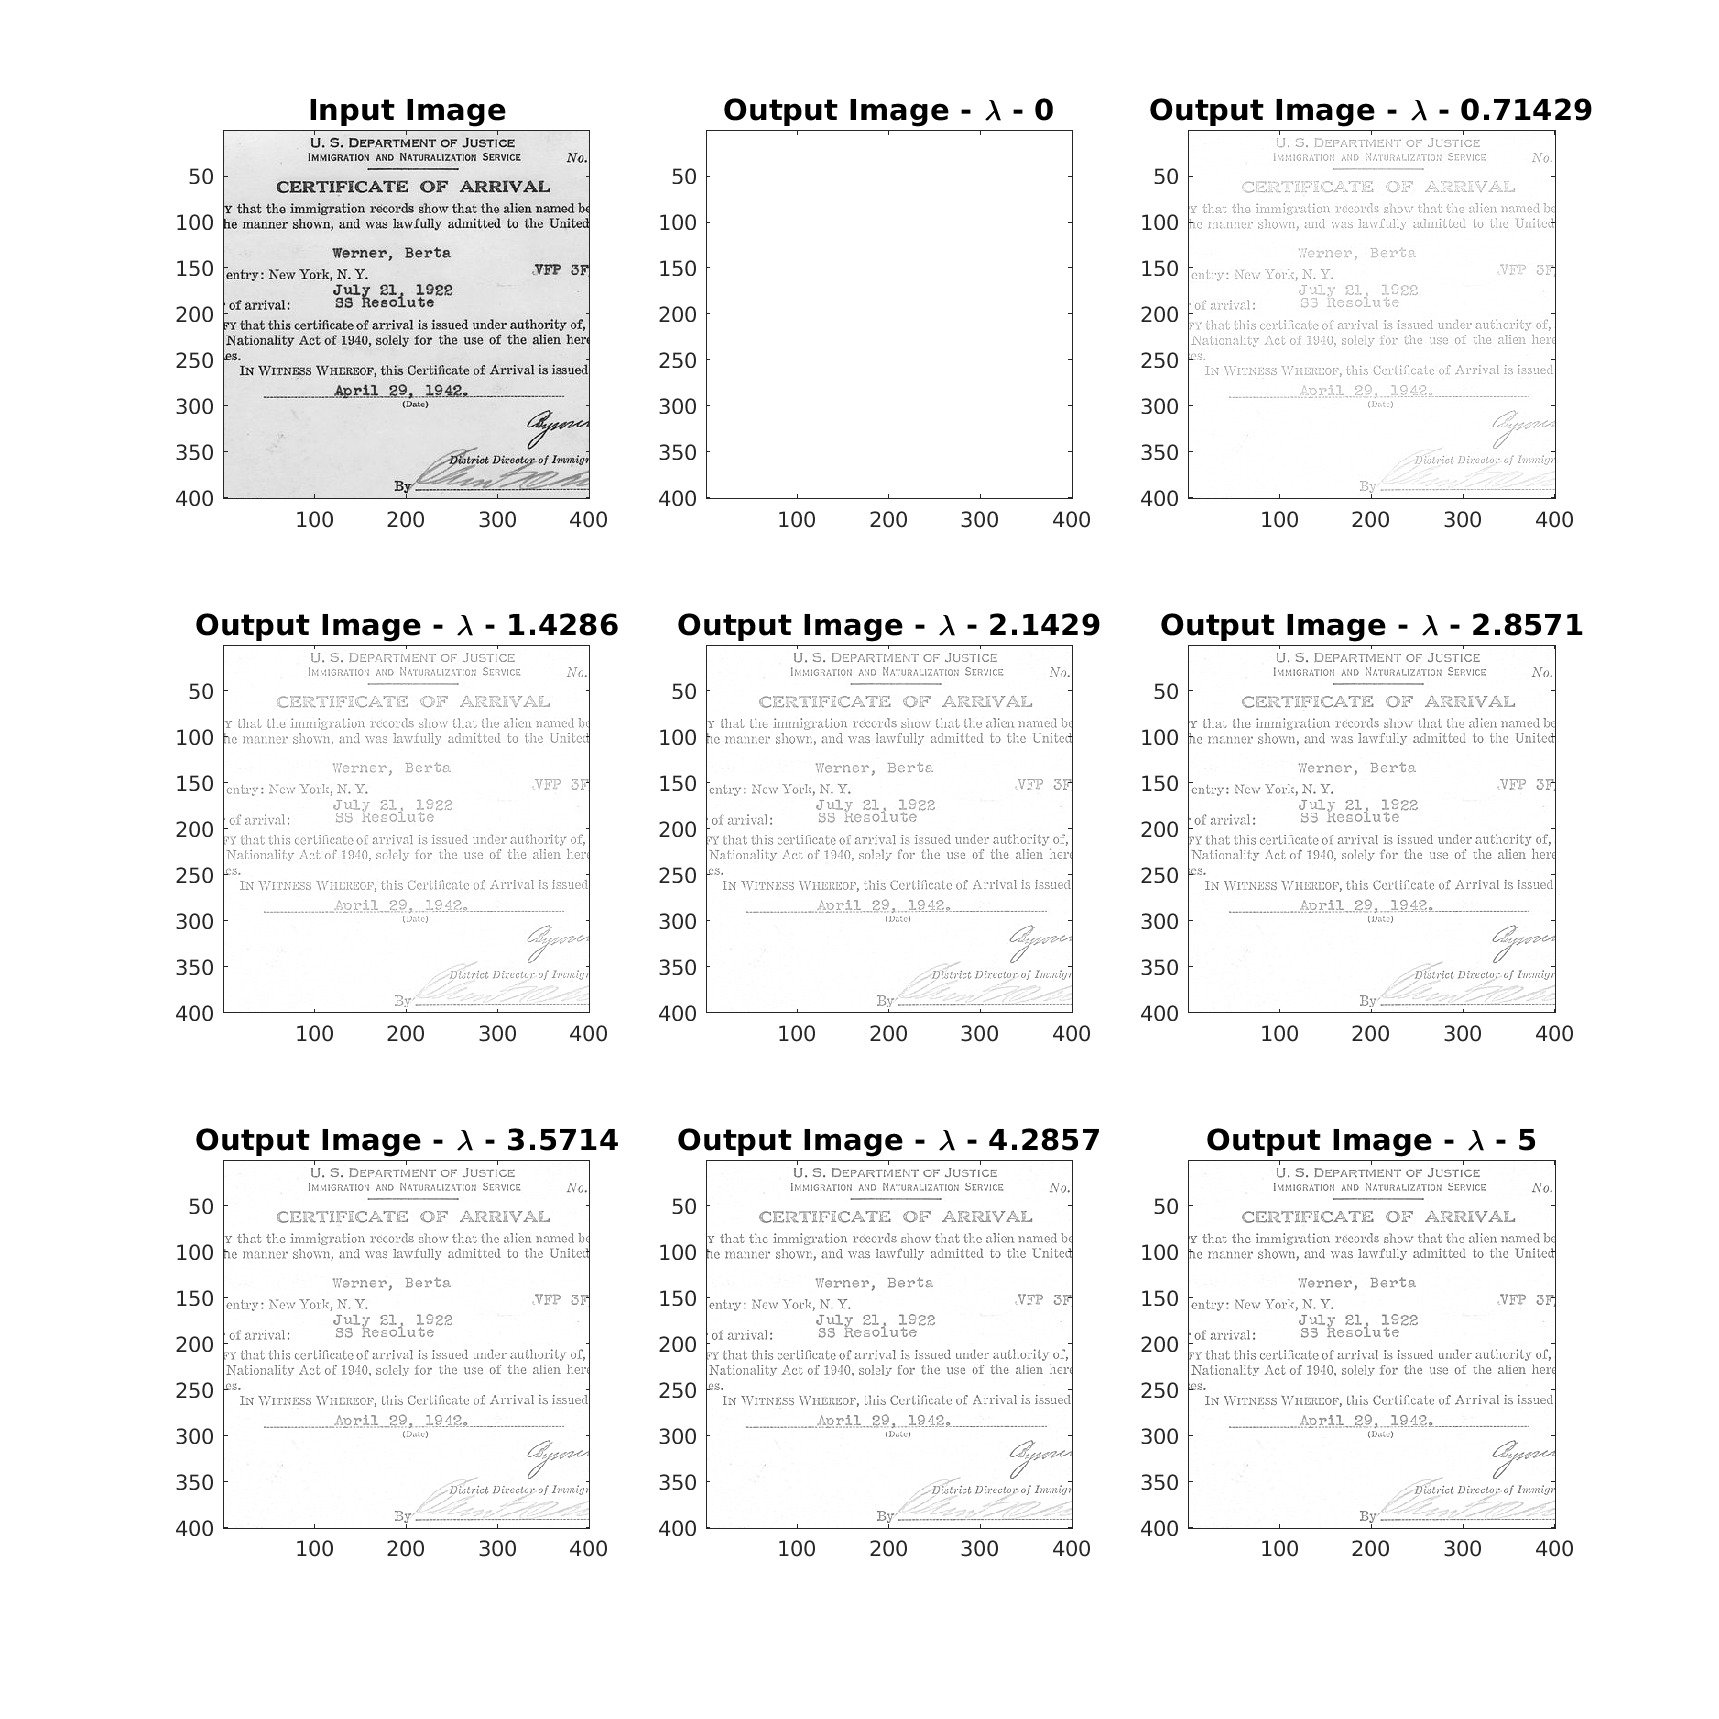
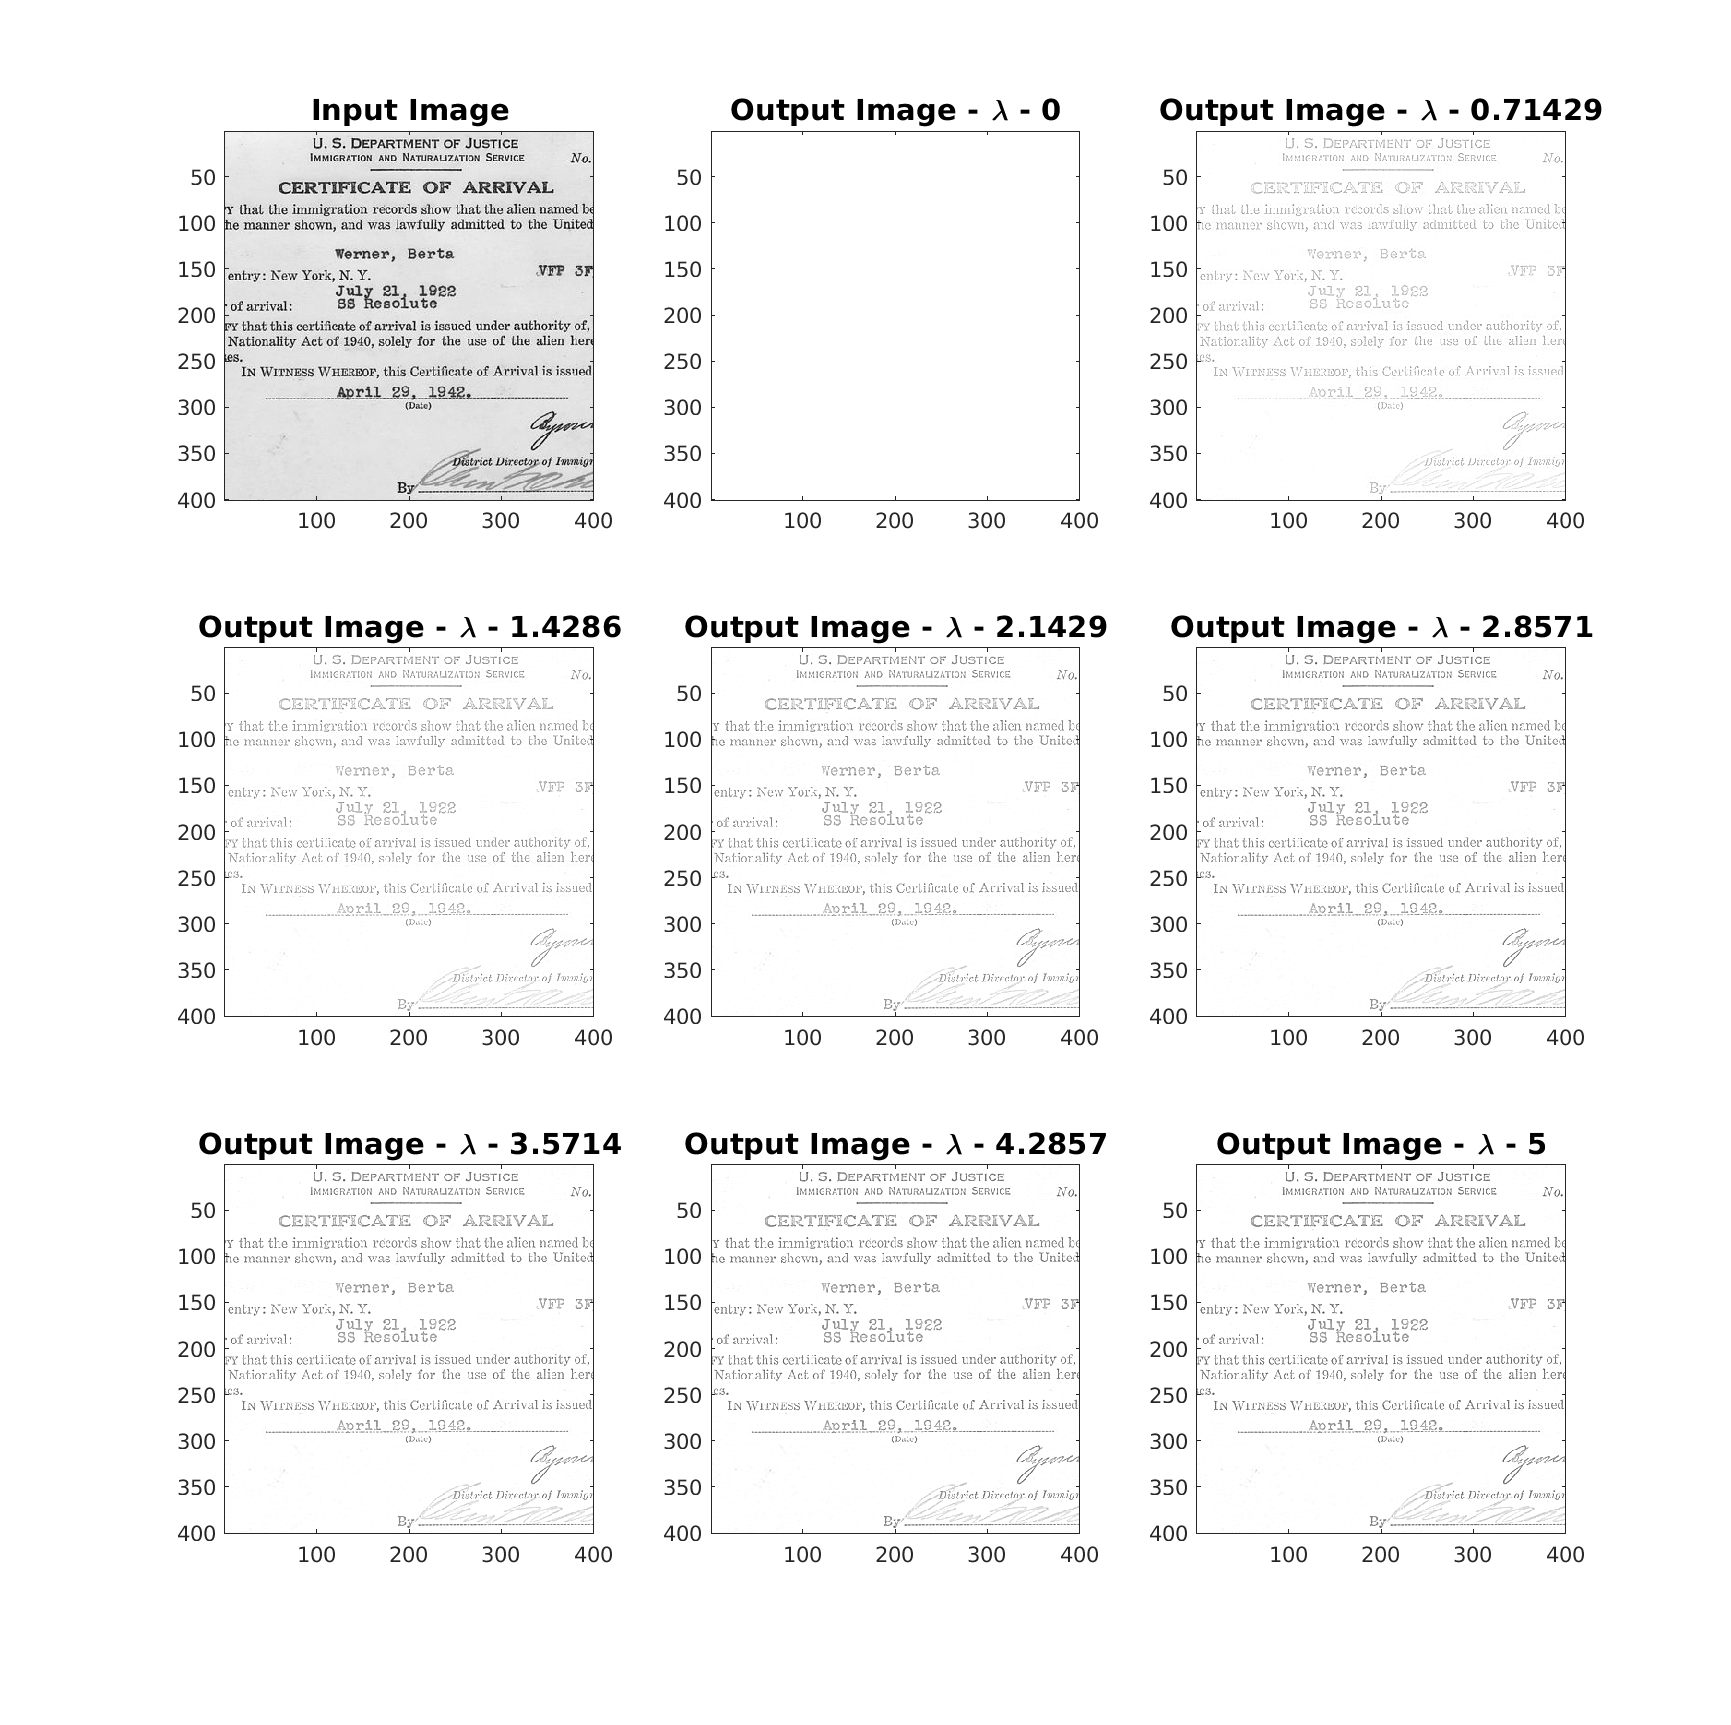
Added solution to https://dsp.stackexchange.com/questions/50003 - Automatic Image Enhancement of Images of Scanned Documents (Added Image Laplacian Calculation).

diff --git a/SignalProcessing/Q50329/Q50329A.m b/SignalProcessing/Q50329/Q50329A.m
@@ -1,0 +1,95 @@
+% StackExchange Signal Processing Q50003
+% https://dsp.stackexchange.com/questions/50003/
+% Automatic Image Enhancement of Images of Scanned Documents
+% References:
+%   1.  aa
+% Remarks:
+%   1.  Image - Certificate of Arrival for Berta Werner (Wikipdia).
+%       Taken from https://commons.wikimedia.org/wiki/File:Certificate_of_Arrival_for_Berta_Werner._-_NARA_-_282038.jpg.
+%   2.  This solves teh same problem using Conjugate Gradient.
+% TODO:
+% 	1.  ds
+% Release Notes
+% - 1.0.000     29/06/2018  Royi
+%   *   First release.
+
+
+%% General Parameters
+
+run('InitScript.m');
+
+figureIdx           = 0; %<! Continue from Question 1
+figureCounterSpec   = '%04d';
+
+generateFigures = ON;
+
+
+%% Simulation Parameters
+
+imageFileName = 'InputImage.jpg'; %<! Source - WikiMedia (Certificate of Arrival for Berta Werner).
+
+vParamLambda = linspace(0, 5, 8);
+
+
+%% Load & Generate Data
+
+mI = im2double(imread(imageFileName));
+mI = mI(11:410, 201:600, 1);
+
+% mI = mI(11:20, 201:210, 1);
+
+numRows     = size(mI, 1);
+numCols     = size(mI, 2);
+numPixels   = numRows * numCols;
+
+mO = zeros([numRows, numCols, length(vParamLambda)]); %<! Output
+
+
+%% Analysis
+
+mII = speye(numPixels);
+vB  = ones([numPixels, 1]);
+
+tic();
+for ii = 1:length(vParamLambda)
+    paramLambda = vParamLambda(ii);
+    
+    hAFun   = @(vX) vX + (paramLambda * reshape(CalcImageLaplacian(  reshape(vX, numRows, numCols) ), numPixels, 1));
+    vB      = paramLambda * reshape(CalcImageLaplacian(mI), [], 1) + ones([numPixels, 1]);
+    
+    mO(:, :, ii) = reshape(pcg(hAFun, vB), numRows, numCols);
+end
+toc();
+
+
+
+%% Display Results
+
+figureIdx = figureIdx + 1;
+
+hFigure         = figure('Position', [100, 100, 1100, 1100]);
+
+hAxes     = subplot(sqrt(length(vParamLambda) + 1), sqrt(length(vParamLambda) + 1), 1);
+hImageObj = image(repmat(mI, [1, 1, 3]));
+set(hAxes, 'DataAspectRatio', [1, 1, 1]);
+set(get(hAxes, 'Title'), 'String', {['Input Image']}, ...
+    'FontSize', fontSizeTitle);
+
+for ii = 1:length(vParamLambda)
+    hAxes     = subplot(sqrt(length(vParamLambda) + 1), sqrt(length(vParamLambda) + 1), ii + 1);
+    hImageObj = image(repmat(mO(:, :, ii), [1, 1, 3]));
+    set(hAxes, 'DataAspectRatio', [1, 1, 1]);
+    set(get(hAxes, 'Title'), 'String', {['Output Image - \lambda - ', num2str(vParamLambda(ii))]}, ...
+        'FontSize', fontSizeTitle);
+end
+
+if(generateFigures == ON)
+    saveas(hFigure, ['Figure', num2str(figureIdx, figureCounterSpec), '.png']);
+end
+
+
+%% Restore Defaults
+
+% set(0, 'DefaultFigureWindowStyle', 'normal');
+% set(0, 'DefaultAxesLooseInset', defaultLoosInset);
+

diff --git a/SignalProcessing/Q50329/CalcImageLaplacian.m b/SignalProcessing/Q50329/CalcImageLaplacian.m
@@ -1,0 +1,53 @@
+function [ mO ] = CalcImageLaplacian( mI )
+% ----------------------------------------------------------------------------------------------- %
+%[ mO ] = CalcImageLaplacian( mI )
+% Calculates the Laplacian of the Image.
+% Input:
+%   - mI                -   Input Image.
+%                           Structure: Image Matrix (Single Channel).
+%                           Type: 'Single' / 'Double'.
+%                           Range: [0, 1].
+% Output:
+%   - mO                -   Output Image.
+%                           The Laplacian of the Image.
+%                           Structure: Image Matrix (Single Channel).
+%                           Type: 'Single' / 'Double'.
+%                           Range: [0, 1].
+% References
+%   1.  Wikipedia Finite Differences Coefficients - https://en.wikipedia.org/wiki/Finite_difference_coefficient.
+% Remarks:
+%   1.  The Laplacian is given by d^2I/dx^2 + d^2I/dy^2. The second
+%       derivative in coefficients should be [1, -2, 1]. Yet this function
+%       implements [-1, 2, -1]. This is dues the fast usually we are after
+%       volving {D}^{T} D x where D is Derivative Operator with the
+%       convolution kernel [1, -1]. So the function implementes Dx.' * Dx +
+%       Dy.' * Dy. Where D.' is correlation instead of convolution.
+% TODO:
+%   1.  See if it can be done in onve convolution by padding the image and
+%       using [-1, 2, 1] directly.
+% Release Notes:
+%   -   1.0.000     07/07/2018  Royi Avital
+%       *   First realease version.
+% ----------------------------------------------------------------------------------------------- %
+
+% If mD is the matrix form of convolution by vK then:
+%   *   the operation 'reshape(mD * mI(:), numRows - 1, numCols)' is
+%       equivalent of 'conv2(mI, vK, 'valid')'.
+%   *   The operation of mD.' is correlation. Namely convolving by the
+%       flipped kernel (Though dimensions doesn't fit).
+%   *   The operation 'reshape(mD.' * mD * mI(:), numRows - 1, numCols)' is
+%       equivalent of 'conv2(conv2(mI, vK, 'valid'), vK(end:-1:1), 'full')'
+%       namely convolution and then correlation with different Convolution
+%       Shape.
+%   *   If one uses Full Convol;ution (Inpuit and Output size are the same)
+%       all works with no dimension adjustments.
+
+vK = [1, -1]; %<! Horizontal 1st Derivative
+mO = conv2(conv2(mI, vK, 'valid'), vK(end:-1:1), 'full') + conv2(conv2(mI, vK.', 'valid'), flip(vK.', 1), 'full');
+
+% vK = [-1, 2, 1]; %<! Horizontal 2nd Derivative
+% mO = conv2(mI, vK) + conv2(mI, vK.');
+
+
+end
+

diff --git a/SignalProcessing/Q50329/Q50329.m b/SignalProcessing/Q50329/Q50329.m
@@ -90,7 +90,27 @@ disp(['Maximum Absolute Error Between Matrix Form to Convolution (Horizontal Der
 
 mDDh    = mDh.' * mDh;
 mDDv    = mDv.' * mDv;
-mDD     = mDDh + mDDv;
+mDD     = mDDh + mDDv; %<! Laplacian
+
+% The following are equivalent:
+% mO = reshape(mDD * mI(:), numRows, numCols);
+% mO = conv2(conv2(mI, vDx, 'valid'), vDx(end:-1:1), 'full') + conv2(conv2(mI, vDy, 'valid'), vDy(end:-1:1), 'full');
+% Pay attnetion that in real Laplacian we would apply convolution twice
+% while in the above we apply its Adjoint (Correlation) hence the filter is
+% practically [-1, 2, -1] while for Laplacian it is [1, -2, 1].
+% In parts:
+% mO = reshape(mDDh * mI(:), numRows, numCols);
+% mO = conv2(conv2(mI, vDx, 'valid'), vDx(end:-1:1), 'full');
+% mO = reshape(mDDv * mI(:), numRows, numCols);
+% mO = conv2(conv2(mI, vDy, 'valid'), vDy(end:-1:1), 'full');
+
+% Verification Code:
+% mII         = speye(numPixels);
+% paramLambda = 0.5;
+% mXRef       = reshape((mII + (paramLambda * mDD)) * mI(:), numRows, numCols);
+% mX          = mI + (paramLambda * CalcImageLaplacian(mI));
+% mE          = mXRef - mX;
+% max(abs(mE(:)))
 
 
 %% Analysis
@@ -104,7 +124,6 @@ for ii = 1:length(vParamLambda)
     mO(:, :, ii) = reshape((mII + (paramLambda * mDD)) \ ((paramLambda * mDD * mI(:)) + vB), numRows, numCols);
 end
 toc();
-
 
 
 %% Display Results
